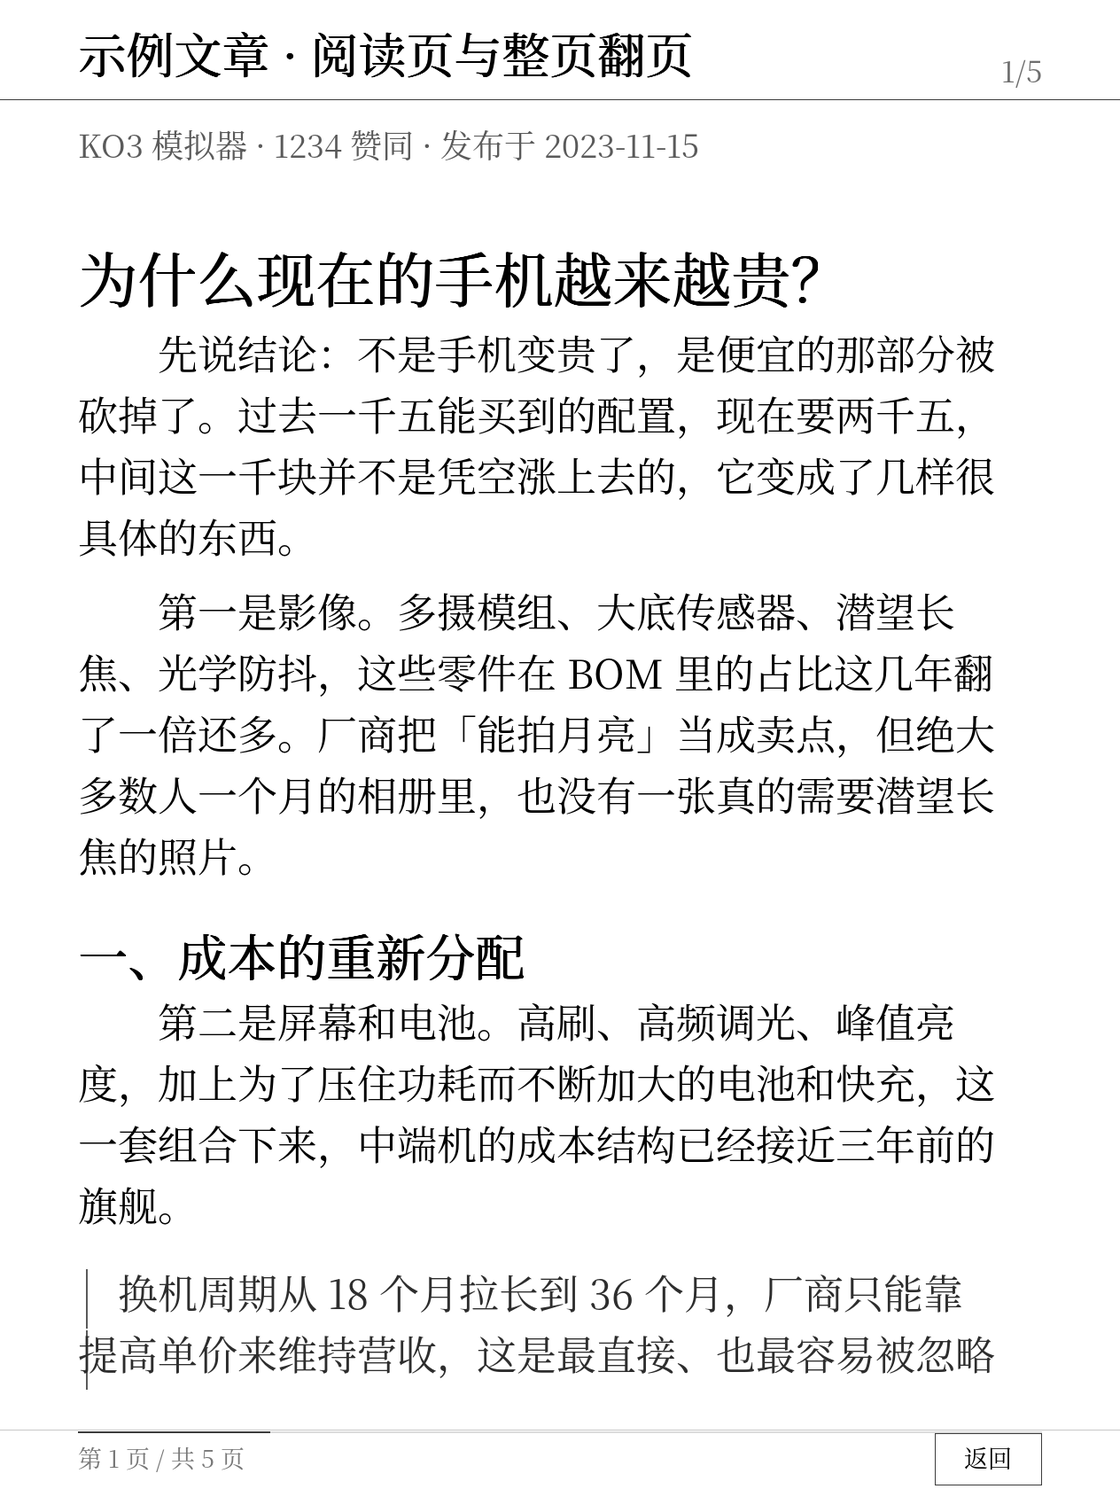
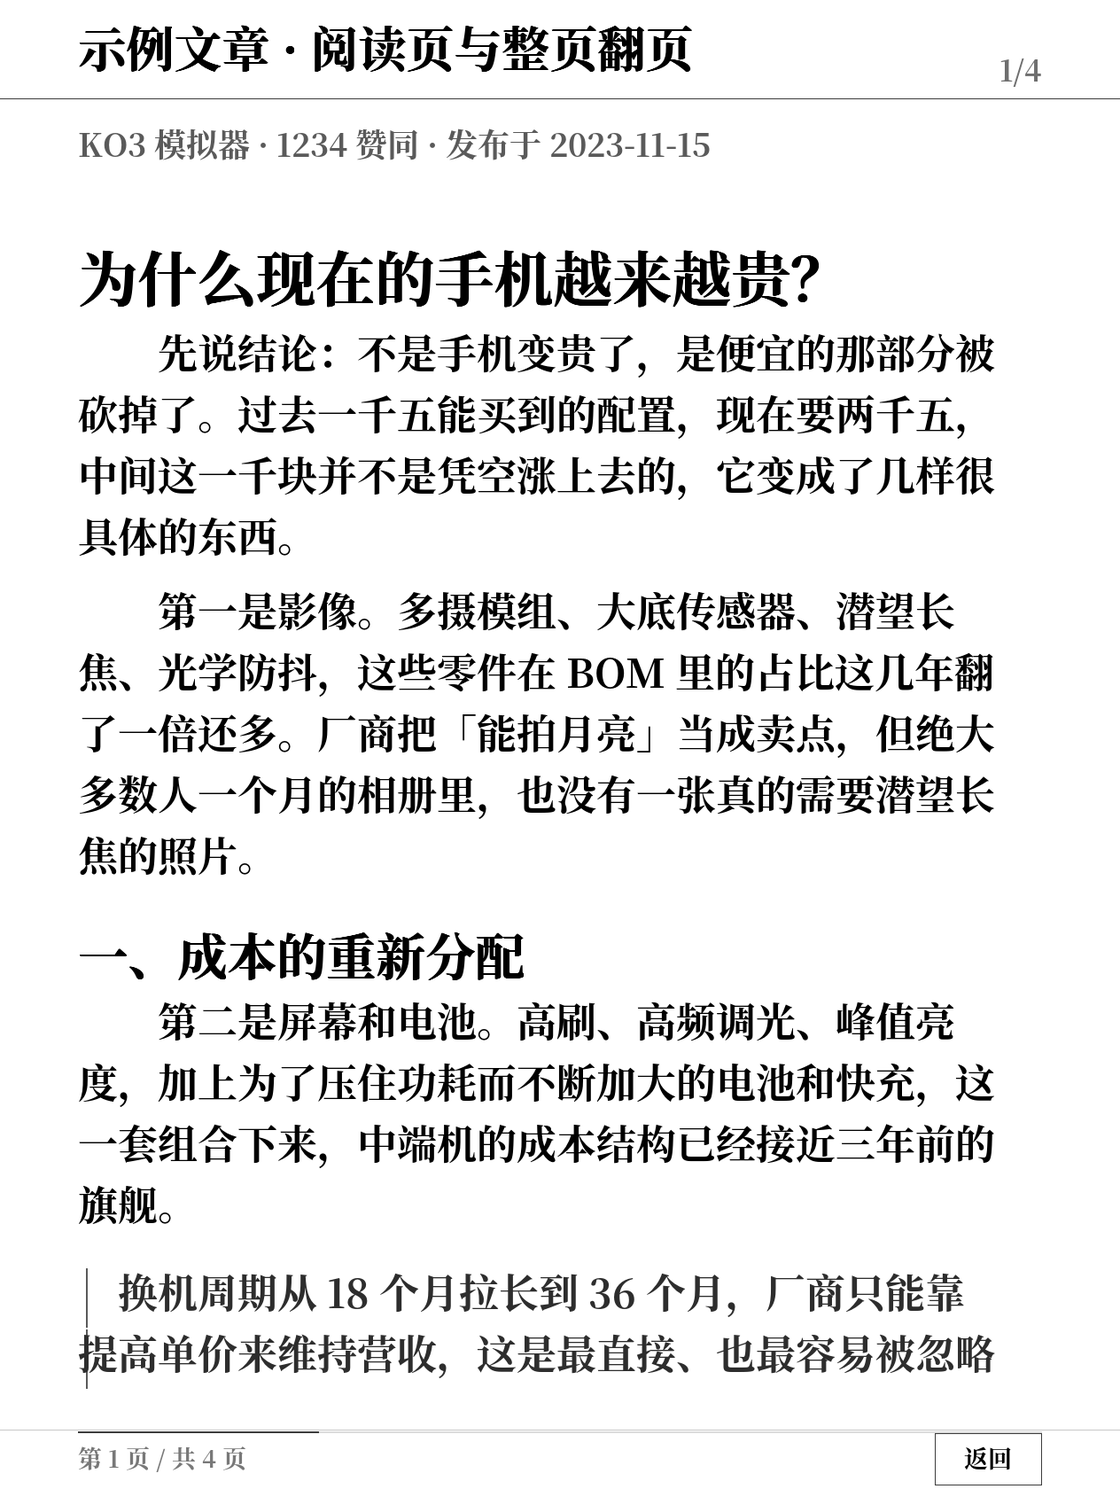
1.2.11：修排版尾部空白页（pages[pn] 未赋值+npages 多算一页）、标题折行完整显示、回答列表三行预览

diff --git a/src/ui.c b/src/ui.c
@@ -384,6 +384,8 @@ static void qr_stop(void);
 static void qr_tick(void);
 static int  is_cjk_simple(uint32_t c);
 static int  draw_wrapped(int x, int y, int maxw, int px, const char *s, int gray, int maxy);
+static int  draw_wrapped_n(int x, int y, int maxw, int px, const char *s, int gray,
+                           int max_lines, int maxy);
 static void sim_seed_image(const char *url);
 
 static int is_cjk_simple(uint32_t c) {
@@ -619,7 +621,13 @@ static void draw_home(void) {
 
 /* ---------------- 屏幕：列表 ---------------- */
 
-static int list_row_h(void) { return g.base * 13 / 5; }
+static int list_row_h(void) {
+    /* 1.2.11：回答列表（点热榜问题后看到的那个列表）每条先露 3 行摘要
+     * 预览，行高比普通列表高一大截；其余列表保持原来的紧凑两行式 */
+    if (strcmp(g.list_kind, "answers") == 0)
+        return g.base * 6;
+    return g.base * 13 / 5;
+}
 static int list_rows_per_page(void) {
     int avail = g.H - g.header_h - g.footer_h;
     int n = avail / list_row_h();
@@ -657,17 +665,29 @@ static void draw_list(void) {
         int fg = sel ? 255 : 0;
         int fg2 = sel ? 200 : 110;
         int tpx = g.base;
-        int baseline = y + rh / 3;
         char num[16];
         snprintf(num, sizeof(num), "%d", idx + 1);
         int numw = font_width(tpx * 3 / 4, num, (int)strlen(num));
-        text_at(g.margin, baseline, tpx * 3 / 4, num, fg2, 0);
-        text_clip(g.margin + numw + g.base / 2, baseline, tpx, it->title,
-                  g.W - 2 * g.margin - numw - g.base / 2, fg, sel);
-        if (it->sub[0]) {
+        int tx = g.margin + numw + g.base / 2;
+        if (strcmp(g.list_kind, "answers") == 0) {
+            /* 1.2.11：回答列表——每条先露前三行摘要，看得到写得怎么样
+             * 再决定点不点进去；底部一行还是作者 · 赞同 */
             int spx = g.base * 3 / 5;
-            text_clip(g.margin + numw + g.base / 2, y + rh - spx, spx, it->sub,
-                      g.W - 2 * g.margin - numw, fg2, 0);
+            int ty = y + g.base / 2 + tpx;              /* 第一行 baseline */
+            draw_wrapped_n(tx, ty, g.W - g.margin - tx, tpx, it->title, fg,
+                           3, y + rh - spx - g.base);
+            if (it->sub[0])
+                text_at(tx, y + rh - g.base / 2 - spx, spx, it->sub, fg2, 0);
+        } else {
+            int baseline = y + rh / 3;
+            text_at(g.margin, baseline, tpx * 3 / 4, num, fg2, 0);
+            text_clip(tx, baseline, tpx, it->title,
+                      g.W - 2 * g.margin - numw - g.base / 2, fg, sel);
+            if (it->sub[0]) {
+                int spx = g.base * 3 / 5;
+                text_clip(tx, y + rh - spx, spx, it->sub,
+                          g.W - 2 * g.margin - numw, fg2, 0);
+            }
         }
         if (!sel) fb_hline(&g.fb, g.margin, y + rh - 1, g.W - 2 * g.margin, 220);
         y += rh;
@@ -717,11 +737,75 @@ static void draw_list(void) {
 static int reader_pad(void) { return g.base * 2 / 3; }
 
 /* 1.2.7：阅读页标题比列表页页眉明显大一档（粗体，1.2 倍正文）。
- * 页眉跟着加高，否则放大后的标题会压到正文第一行上。 */
-static int reader_header_h(void) { return g.base * 5 / 2; }
+ * 页眉跟着加高，否则放大后的标题会压到正文第一行上。
+ * 1.2.11：标题自动折行完整显示（原来一行截断加省略号，长标题
+ * 根本看不出问的是什么），最多 3 行，页眉高度跟着行数走。 */
+#define READER_TITLE_MAX_LINES 3
+static int g_title_lines = 1;
+static int g_title_more = 0;                        /* 折满 3 行仍有剩余 */
+static int g_title_seg[READER_TITLE_MAX_LINES][2];  /* 每行在 doc_title 里的字节区间 */
+
+static int reader_title_px(void) { return g.base * 6 / 5; }
+
+/* 标题可用宽度：右上角要给页码留位置 */
+static int reader_title_avail(void) {
+    int rpx = g.base * 3 / 4;
+    int reserve = rpx * 3 + g.margin;      /* "12/34" 一类页码 */
+    int avail = g.W - 2 * g.margin - reserve;
+    return avail > g.base * 4 ? avail : g.base * 4;
+}
+
+static void reader_title_layout(void) {
+    int px = reader_title_px();
+    int avail = reader_title_avail();
+    const char *s = g.doc_title;
+    int len = s ? (int)strlen(s) : 0;
+    int lines = 0, pos = 0;
+    while (pos < len && lines < READER_TITLE_MAX_LINES) {
+        int room = avail;
+        int i = pos, w = 0, last = -1;
+        uint32_t prev = 0;
+        if (lines == READER_TITLE_MAX_LINES - 1 &&
+            font_width(px, s + pos, len - pos) > avail)
+            room = avail - g.base;             /* 最后还剩内容时给"…"留位 */
+        while (i < len) {
+            uint32_t cp;
+            int n = u8_decode(s + i, (size_t)(len - i), &cp);
+            if (n <= 0) { n = 1; cp = (unsigned char)s[i]; }
+            int cw = font_width(px, s + i, n);
+            if (w + cw > room) break;
+            if (cp == ' ' || prev == ' ') last = i;   /* 词边界优先 */
+            w += cw;
+            prev = cp;
+            i += n;
+        }
+        int cut = (i >= len) ? len : (last > pos ? last : i);
+        if (cut <= pos) cut = pos + 1;         /* 单字超宽也至少推进一个字 */
+        g_title_seg[lines][0] = pos;
+        g_title_seg[lines][1] = cut;
+        lines++;
+        pos = cut;
+        while (pos < len && s[pos] == ' ') pos++;
+    }
+    if (lines <= 0) {
+        lines = 1;
+        g_title_seg[0][0] = 0;
+        g_title_seg[0][1] = len;
+    }
+    g_title_more = (pos < len);
+    g_title_lines = lines;
+}
+
+static int reader_header_h(void) {
+    int px = reader_title_px();
+    int lh = px + px / 4;
+    return g.base / 2 + g_title_lines * lh + g.base / 2;
+}
 
 static void reader_layout(void) {
     layout_free(&g.lay);
+    /* 1.2.11：先按当前宽度折好标题行数（h0 依赖页眉高度），再排版 */
+    reader_title_layout();
     int w = g.W - 2 * g.margin;
     /* 底部多留 base/3：排版高度刚好卡到页脚时，最后一行的字身会压到
      * 页脚横线上（看上去像"被裁掉半行"）。留出下伸部的高度就没有这问题。 */
@@ -777,6 +861,7 @@ static void reader_relayout_keep(void) {
 /* 阅读页页眉：标题大号加粗，右上角仍显示页码。
  * 1.2.9：只在第一页画标题；后续页顶部只留一条细分隔线，正文更长。 */
 static void draw_reader_header(const char *title, const char *right, int page) {
+    (void)title;   /* 1.2.11：标题折行信息在 g_title_* 里，直接用 g.doc_title */
     int h = reader_header_h();
     if (page > 0) {
         /* 后续页：没有标题。顶部只画一条浅线，右上角小字页码。 */
@@ -790,13 +875,20 @@ static void draw_reader_header(const char *title, const char *right, int page) {
         return;
     }
     fb_fill(&g.fb, 0, 0, g.W, h + 1, 255);
-    int px = g.base * 6 / 5;
+    /* 1.2.11：标题折行完整显示（reader_layout 里已按宽度折好行） */
+    int px = reader_title_px();
     int rpx = g.base * 3 / 4;
-    int rw = 0;
-    if (right && *right) rw = font_width(rpx, right, (int)strlen(right)) + g.margin;
-    int baseline = h - px / 2 - 2;
-    if (baseline < px) baseline = px;
-    text_clip(g.margin, baseline, px, title, g.W - 2 * g.margin - rw, 0, 1);
+    int lh = px + px / 4;
+    int lastw = 0, lastbase = 0;
+    for (int i = 0; i < g_title_lines; i++) {
+        int seglen = g_title_seg[i][1] - g_title_seg[i][0];
+        lastbase = g.base / 2 + i * lh + px;
+        font_draw(&g.fb, g.margin, lastbase, px,
+                  g.doc_title + g_title_seg[i][0], seglen, 0, 1);
+        lastw = font_width(px, g.doc_title + g_title_seg[i][0], seglen);
+    }
+    if (g_title_more && g_title_lines > 0)
+        text_at(g.margin + lastw + g.base / 4, lastbase, px, "…", 0, 1);
     if (right && *right) {
         int w = font_width(rpx, right, (int)strlen(right));
         text_at(g.W - g.margin - w, h - rpx / 2 - 3, rpx, right, 110, 0);
@@ -1100,12 +1192,22 @@ static void draw_about(void) {
  * 断行规则和消息屏（原 draw_message 内联实现）完全一致：
  * 支持手动换行、优先在空格/中文/ASCII 标点处断，行首行尾空格不画。 */
 static int draw_wrapped(int x, int y, int maxw, int px, const char *s, int gray, int maxy) {
+    return draw_wrapped_n(x, y, maxw, px, s, gray, 0, maxy);
+}
+
+/* 1.2.11：带行数上限的折行（max_lines<=0 不限）。回答列表预览用：
+ * 每条回答先露前三行，够了再点进去。 */
+static int draw_wrapped_n(int x, int y, int maxw, int px, const char *s, int gray,
+                          int max_lines, int maxy) {
     if (!s || !*s) return y;
     int lh = px * 3 / 2;
     if (lh < 1) lh = 1;
     const char *p = s;
+    int drawn = 0;
     while (*p) {
         if (y > maxy) break;
+        if (max_lines > 0 && drawn >= max_lines) break;
+        drawn++;
         int len = (int)strlen(p);
         int i = 0, last = 0, width = 0, hard_nl = 0;
         while (i < len) {

diff --git a/src/main.c b/src/main.c
@@ -816,7 +816,7 @@ static int run_selftest(void) {
             Doc d;
             doc_init(&d);
             char para[512];
-            for (int i = 0; i < 12; i++) {
+            for (int i = 0; i < 20; i++) {
                 snprintf(para, sizeof(para), "第%d段，这一段有比较多的汉字内容，"
                                              "用来把排版撑过好几页。", i);
                 doc_add(&d, para, BLK_PARA);
@@ -833,10 +833,25 @@ static int run_selftest(void) {
                     if (i >= L.pages[q] && i < L.pages[q + 1]) { pg = q; break; }
                 if (pg == 0 && L.lines[i].y >= h0) p0 = 0;
                 if (pg == 1 && (L.lines[i].y < h0 || L.lines[i].y >= h0 + h1)) p1 = 0;
+                if (pg < 0) p0 = p1 = 0;   /* 每一行都必须归属某个页 */
             }
-            ok = okp && p0 && p1;
-            printf("[lay2 ] %s 首页高 %d、后续页高 %d，页数=%d，各页行不越界\n",
-                   ok ? "OK" : "FAIL", h0, h1, L.npages);
+            /* 1.2.11 回归：1.2.9/1.2.10 的 pages[pn] 从未赋值（calloc 为 0），
+             * npages 又多算一页——真机上"共 5 页的第 4、5 页全空白、
+             * 共 2 页的两页全空白"。这里钉死：每一页行区间非空，
+             * 且每页首行的 y 落在该页自己的 y 区间里。 */
+            int empty = 0, off = 0;
+            for (int q = 0; q < L.npages; q++) {
+                if (L.pages[q] >= L.pages[q + 1]) { empty++; continue; }
+                int top = (q == 0) ? 0 : h0 + (q - 1) * h1;
+                int ph  = (q == 0) ? h0 : h1;
+                int fy = L.lines[L.pages[q]].y;
+                if (fy < top || fy >= top + ph) off++;
+            }
+            int last_ok = (L.pages[L.npages] == L.n);
+            ok = okp && p0 && p1 && empty == 0 && off == 0 && last_ok;
+            printf("[lay2 ] %s 首页高 %d、后续页高 %d，页数=%d，空页=%d 越页=%d%s\n",
+                   ok ? "OK" : "FAIL", h0, h1, L.npages, empty, off,
+                   last_ok ? "" : " 末页终点错");
             ok ? pass++ : fail++;
             layout_free(&L);
             doc_free(&d);

diff --git a/tools/verify_release.py b/tools/verify_release.py
@@ -8,7 +8,7 @@ import xml.etree.ElementTree as ET
 import zipfile
 
 ROOT = os.path.dirname(os.path.dirname(os.path.abspath(__file__)))
-VER = "1.2.10"
+VER = "1.2.11"
 ZIP = os.path.join(ROOT, "release", "知乎阅读-Kindle-%s.zip" % VER)
 
 ok = True
@@ -256,6 +256,22 @@ def main():
     check("FBIOPAN_DISPLAY branch" in fbc and "#warning" in fbc, "fb.c FBIOPAN 分支编译期警示")
     check("fw=%s" in uic, "ui.c 心跳带 framework 状态（fw=coexist/stop Ns）")
     check('g_cfg.showbar = 1' in uic, "ui.c showbar 默认值改回 1（显示/共存）")
+
+    # 1.2.11：真机三修——排版空页、标题折行、回答列表三行预览
+    layc = z.read(base + "source/src/layout.c").decode("utf-8", "replace")
+    apic = z.read(base + "source/src/api.c").decode("utf-8", "replace")
+    check("L->npages = pn;" in layc and "L->pages[pn] = L->n;" in layc,
+          "layout.c 修复 pages[pn] 未赋值导致的尾部空白页（1.2.11 主修）")
+    check("npages = pn + 1;" not in layc, "layout.c 已移除 npages 多算一页")
+    check("reader_title_layout" in uic and "READER_TITLE_MAX_LINES 3" in uic,
+          "ui.c 阅读页标题自动折行（最多 3 行，完整显示）")
+    check("g.base / 2 + g_title_lines * lh" in uic, "ui.c 页眉高度随标题行数自适应")
+    check("draw_wrapped_n" in uic and 'strcmp(g.list_kind, "answers") == 0' in uic,
+          "ui.c 回答列表每条 3 行摘要预览（行高自适应）")
+    check("max_chars), 140" in apic or ", 140)" in apic,
+          "api.c 回答摘要加长到 140 字（够三行预览）")
+    check("空页=" in mnc and "越页=" in mnc,
+          "main.c 自检 [lay2] 钉死空页/越页回归")
 
     # 配置合法
     menu = json.loads(z.read(base + "extensions/zhihureader/menu.json").decode("utf-8"))

diff --git a/src/layout.c b/src/layout.c
@@ -253,11 +253,15 @@ void layout_build2(Layout *L, const Doc *doc, int width, int height, int base_px
     }
 
     /* 分页：页起点在排版的 ADV_PAGE() 里逐页记录。
-     * 第一页页高是 first_h（有标题页眉），后面每页都是 height。 */
-    L->npages = pn + 1;
-    L->pages = xcalloc((size_t)L->npages + 1, sizeof(int));
+     * 第一页页高是 first_h（有标题页眉），后面每页都是 height。
+     * 1.2.11 修复：之前写成 npages = pn + 1，而 pages[pn] 从未赋值
+     * （calloc 为 0），导致最后两页一行区间为空/全部越页——真机上
+     * 表现为"共 5 页的第 4、5 页全空白；共 2 页的两页全空白"。
+     * 排版记录了 pn 个页起点，内容就占 pn 页，第 pn 页结束于 L->n。 */
+    L->npages = pn;
+    L->pages = xcalloc((size_t)pn + 1, sizeof(int));
     for (int p = 0; p < pn; p++) L->pages[p] = pstarts[p];
-    L->pages[L->npages] = L->n;
+    L->pages[pn] = L->n;
     free(pstarts);
 #undef ADV_PAGE
 }

diff --git a/src/api.c b/src/api.c
@@ -493,7 +493,7 @@ static int parse_one(JVal *item, ApiItem *it) {
         JVal *ta = json_get(t, "title_area");
         if (ta) title = json_get_str(ta, "text", NULL);
     }
-    char excerpt_buf[640];
+    char excerpt_buf[1024];
     excerpt_buf[0] = 0;
     if (!title || !*title) {
         const char *ex = json_get_str(t, "excerpt", NULL);
@@ -502,7 +502,9 @@ static int parse_one(JVal *item, ApiItem *it) {
             if (ea) ex = json_get_str(ea, "text", NULL);
         }
         if (!ex) ex = json_get_str(t, "content", NULL);   /* 回答的正文 HTML */
-        if (ex && *ex) html_plain(ex, excerpt_buf, sizeof(excerpt_buf), 46);
+        /* 1.2.11：140 字。回答列表每条要露前三行预览（每行约 30 字），
+         * 46 字连两行都不够。其余有标题的列表不走这个分支，不受影响。 */
+        if (ex && *ex) html_plain(ex, excerpt_buf, sizeof(excerpt_buf), 140);
         if (excerpt_buf[0]) title = excerpt_buf;
     }
     if (!title || !*title) {

diff --git a/src/ui.h b/src/ui.h
@@ -3,7 +3,7 @@
 #define ZH_UI_H
 
 /* 全局版本号：main.c 与界面共用，改一处即可 */
-#define ZH_VERSION "1.2.10"
+#define ZH_VERSION "1.2.11"
 
 int app_run(void);
 int app_preview(const char *html_path, int max_pages);

diff --git a/README.md b/README.md
@@ -23,6 +23,8 @@
 
 **要求**：已越狱的 Kindle（推荐 Kindle Oasis 3，1264×1680；其他型号可自行按 `src/fb.h` 里的参数适配），已装 KUAL。
 
+> **1.2.11**：修 1.2.10 真机反馈的三个排版问题。① **文章尾部空白页（主修）**：`layout.c` 分页数组收尾把 `pages[pn]` 留成了 calloc 的 0 且 `npages` 多算一页——内容 4 页的文章显示"共 5 页"且第 4、5 页全空白，内容 1 页的文章两页全空；修复后 `[lay2]` 自检钉死"每页行区间非空、首行落在页内、末页终点=总行数"。② **阅读页标题完整显示**：标题按宽度自动折行（最多 3 行，页眉高度自适应），不再一行截断加省略号。③ **回答列表三行预览**：点热榜问题进去的 20 条回答列表，每条先露前三行摘要（行高自适应、摘要加长到 140 字），看得到写得怎么样再决定点不点进去。详见[变更说明-1.2.11.md](变更说明-1.2.11.md)。
+>
 > **1.2.10**：修 1.2.9 真机上的**整机重启**回归。根因：1.2.9 把「隐藏系统状态栏」实现成了杀 cvm（`showbar=0 → framework=stop`），cvm 一死 Kindle 的 framework 看门狗就在宽限期后整机重启（`run.log` 的 boot_id 自证两次重启，`log.txt` 戛然而止无 CRASH 是被 SIGKILL 的特征）——你点热榜/关于时正好撞上宽限期，其实跟点什么没关系。改法：① **showbar 与 framework 解耦**：默认改回 `showbar=1`（共存），选"隐藏（压屏）"也不再杀 cvm，顶栏残留由屏幕守护（影子回灌，120ms 一拍）压掉；② **删除 `.want_stop` 自动升级 stop** 的隐藏通道；③ 显式 `framework=stop` 保留但加三重保险：**600 秒超时自动恢复共存**（`fwback=` 可配）、**崩溃处理器退出前恢复 framework**、正常退出恢复（已有）；④ **刷新可定位**：MXCFB SEND_UPDATE 前写 breadcrumb 进 `fb_trace.log`（内核 panic 不留 CRASH 行，最后一行就是嫌疑参数）、FBIOPAN 分支加编译期警示、心跳行新增 `fw=coexist/stop Ns` 字段。自检 36 项不变，verify_release 新增 8 项专项检查。详见[变更说明-1.2.10.md](变更说明-1.2.10.md)。
 >
 > **1.2.9**：按真机反馈改 10 处——① **系统状态栏开关**：设置里可选隐藏（默认），隐藏时 `start.sh` 直接接管 framework（`showbar=0 → CF_MODE=stop`），时间/网络/电量顶栏彻底不再露出，切换需重启生效；② **物理翻页键不再串扰**：与 ① 同根，按键随 framework 接管被本程序独占，阅读页=翻页、列表页=下翻，不再串出原生书城/搜索框；③ **推荐条数可配**：6/12/18（6 的倍数、最多 18）；④ **图片解码修复**：按文件头分流，新增 PNG/GIF/BMP（stb_image.h）与 WebP（libwebpdecoder），大图按 `IMG_MAX_PIXELS`（2000 万像素）限尺寸不再卡死，加载失败留在文章页显示原因、不再被踢回首页；⑤ **图片缓存按文章分目录**：`cache/img/<md5(文章key)>/<md5(url)>_宽.zhg`，返回再进瞬时加载，兼容旧平铺缓存，设置里新增「清空缓存」；⑥ **翻页刷屏新增 Regal 模式**（实验）：Kindle 独有 REAGL 残影补偿波形（`WAVEFORM_MODE_REAGL 0x8`），被固件拒绝自动回退 GC16；⑦ **KO3 翻转设备触摸同步**：每秒轮询内核旋转角，画面与触摸映射一起补偿，`autorot=0` 可关；⑧ **私信详情 404 修复**：实测确认 `/api/v4/messages?thread_id=` 与 `/api/v4/me/message-threads` 可用（老 `/api/v4/inbox/{id}/messages` 是 nginx 级 404），候选端点重排并钉进自检；⑨ **KUAL 菜单精简**：第一项只剩「知乎阅读」直接启动，其余 7 项收进「诊断和排障」；⑩ **阅读页只有第一页显示标题**：排版改双页高（`layout_build2`），后续页整页正文、页眉只剩细分隔线+小页码。自检 34 → 36 项。详见[变更说明-1.2.9.md](变更说明-1.2.9.md)。

diff --git a/变更说明-1.2.11.md b/变更说明-1.2.11.md
@@ -1,0 +1,62 @@
+# 变更说明 · 1.2.11
+
+发布日期：2026-11-15
+针对版本：1.2.10 真机反馈的三个问题
+
+---
+
+## 一、文章尾部空白页（主修）
+
+**现象**：文章 5 页时第 4、5 页全空白（只有页脚"第 4 页/共 5 页"）；文章只有 2 页时两页全空白。
+
+**根因**：`layout.c` 分页数组的收尾写错。排版循环逐页记录每页首行下标（`pstarts[0..pn-1]`，pn = 实际页数），但收尾写成了：
+
+```c
+L->npages = pn + 1;              /* 多算一页 */
+L->pages[L->npages] = L->n;      /* pages[pn] 从未赋值，calloc 后是 0 */
+```
+
+于是 `pages[pn] = 0`：
+- **倒数第二页**的行区间是 `[末页起点, 0)`——起点大于终点，一行都不画 → 空白；
+- **最后一页**的行区间是 `[0, n)`（整个文档），但按 `layout_page_top` 换算出的页内 y 全部为负，画到屏幕外 → 空白。
+
+内容 4 页的文章显示"共 5 页"且第 4、5 页空白；内容 1 页的文章显示"共 2 页"且两页全空——与真机截图逐页吻合。该 bug 自 1.2.9 引入双页高排版时就有；自检 `[lay2]` 之前没抓到，是因为未赋值的 `pages[pn]=0` 让越界行"匹配不到任何页"而被跳过了检查。
+
+**修复**：
+
+```c
+L->npages = pn;
+L->pages[pn] = L->n;
+```
+
+**自检加固**：`[lay2]` 排版样本从 12 段加到 20 段，新增三条硬断言——每一页行区间非空（空页=0）、每页首行 y 落在该页自己的 y 区间里（越页=0）、末页终点必须等于总行数。host 与 ARM 双端 36/36 通过。
+
+## 二、阅读页标题完整显示
+
+**现象**：标题只显示一行，超长就截断加"…"，看不出题目是什么。
+
+**修复**（ui.c）：
+- 新增 `reader_title_layout()`：按正文宽度逐字折行，最多 3 行，词边界（空格）优先；
+- 页眉高度 `reader_header_h()` 随行数自适应（单行高度与原来一致）；
+- `draw_reader_header()` 逐行绘制标题；折满 3 行仍有剩余时行尾补"…"；
+- 第一页正文高度跟着页眉高度自动调整，后续页不受影响。
+
+## 三、回答列表三行预览
+
+**现象**：点热榜问题进去是 20 条回答，每条只有一行摘要，看不到写得怎么样就要点进去。
+
+**修复**：
+- `list_row_h()`：`answers` 列表行高加大到 6 倍字号（普通列表不变），每页约 6 条；
+- `draw_list()`：回答列表每条用 `draw_wrapped_n()` 折行显示**前三行摘要**，底部一行仍是"作者 · N 赞同"；点击命中与翻页逻辑基于行高函数，自动跟随；
+- api.c：回答摘要截取长度从 46 字加长到 140 字（3 行 × 每行约 30 字），缓冲区 640 → 1024 字节。有标题的列表（热榜/推荐/搜索）不走这个分支，显示不受影响。
+
+## 验证
+
+- 自检 36/36（host + ARM 交叉执行），`--version` = 知乎阅读 1.2.11
+- KO3 模拟器端到端 40/40
+- `verify_release.py` 全绿（89 个文件、202 项检查，新增 1.2.11 六项专项检查）
+- 截图重跑：阅读页页码 1/4（修复前该文档显示 1/5 且末页空白）、第 2 页整页正文含图
+
+## 配置变化
+
+无新增配置键。升级即生效，无迁移。
